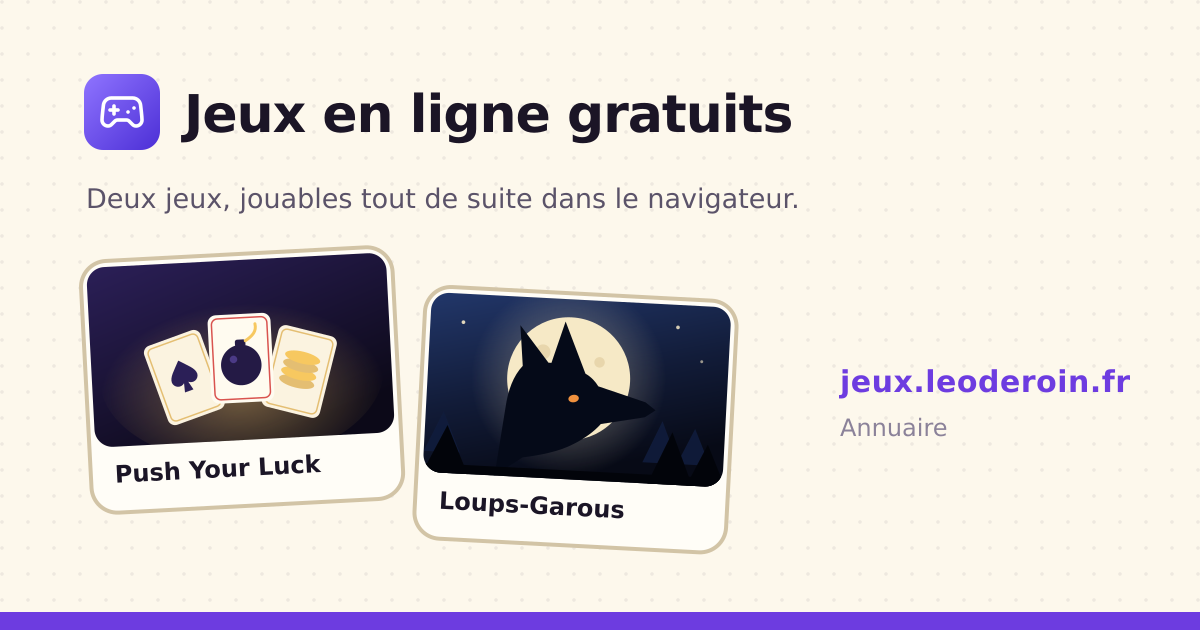
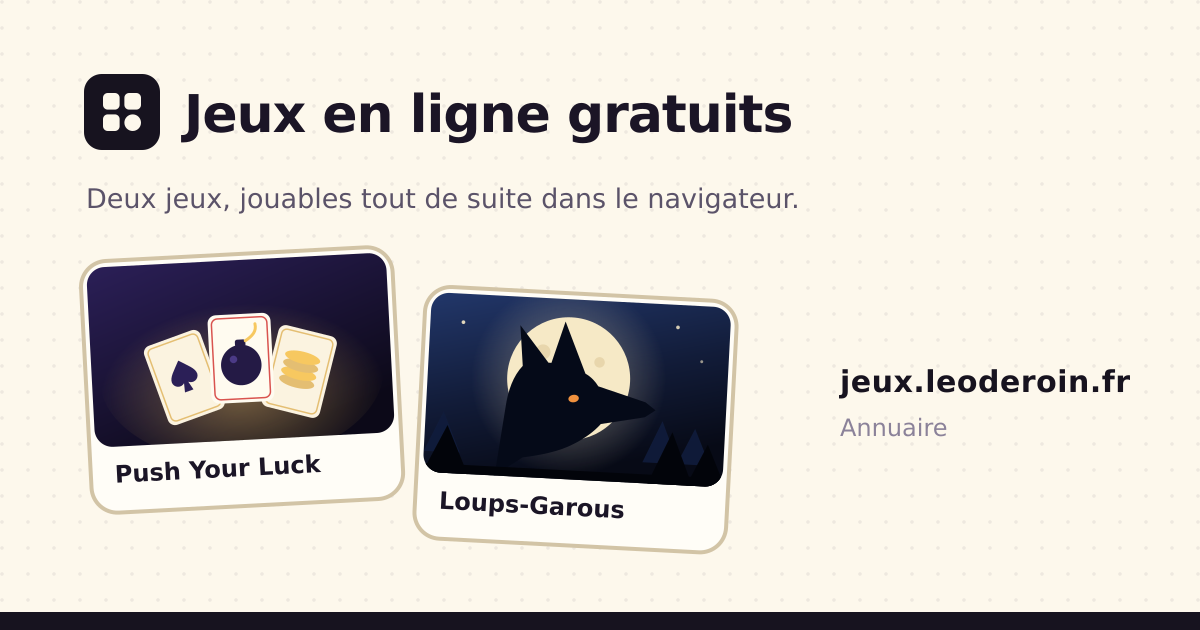
feat(design): donne au site une identité qui lui appartient
Trois choix, contre le « site généré » :

1. L'accent violet disparaît. C'était la teinte par défaut de la moitié des
   sites du web, et elle rivalisait avec les vignettes. L'interface devient
   bichrome papier/encre : les SEULES couleurs saturées de la page sont
   maintenant celles des jeux. Le panneau emprunte sa couleur à ce vers quoi
   il conduit — ce qu'il fait, littéralement.

2. La manette dans un carré arrondi cède la place à un panneau de trois tuiles
   et d'un disque : des objets parmi lesquels un est différent, celui qu'on
   choisit. Testé à 16 px. Une arche avait été essayée avant : elle se lit
   « n », c'est la même forme.

3. La signature se lit en deux temps — « jeux » en pleine encre, le domaine en
   retrait — et l'accueil quitte le centrage intégral pour s'aligner à gauche
   sur sa grille.

Vérifié : 16 pages, contraste Lighthouse conforme, 97/100/100/100 en mobile,
CLS toujours à 0.

Changed region(s): [[0.0, 0.9651, 1.0, 1.0], [0.6783, 0.573, 0.9558, 0.6333], [0.0617, 0.0905, 0.1542, 0.2413]]

diff --git a/src/components/BrandMark.tsx b/src/components/BrandMark.tsx
@@ -1,0 +1,32 @@
+// Trois tuiles et un disque : un panneau d'objets dont un est différent, celui
+// qu'on choisit. C'est ce que fait le site, et ça se reconnaît encore à 16 px —
+// ce qui n'était le cas ni de l'arche (illisible, elle se lit « n ») ni d'une
+// manette, qui aurait dit « jeux » comme n'importe quel autre logo.
+export function BrandMark({ className }: { className?: string }) {
+    return (
+        <svg aria-hidden="true" viewBox="0 0 64 64" className={className}>
+            <rect width="64" height="64" rx="15" className="fill-accent" />
+            <rect x="16" y="16" width="14" height="14" rx="4" className="fill-accent-contrast" />
+            <rect x="34" y="16" width="14" height="14" rx="4" className="fill-accent-contrast" />
+            <rect x="16" y="34" width="14" height="14" rx="4" className="fill-accent-contrast" />
+            <circle cx="41" cy="41" r="7" className="fill-accent-contrast" />
+        </svg>
+    );
+}
+
+// La signature se lit en deux temps : ce que le site EST en pleine encre, le
+// domaine qui le porte en retrait. Le découpage se fait sur le premier point,
+// pas sur une seconde clé de dictionnaire — une clé « tête » et une clé
+// « queue » finiraient par se contredire à la traduction suivante.
+export function BrandWordmark({ brand, className }: { brand: string; className?: string }) {
+    const dot = brand.indexOf('.');
+    const head = dot === -1 ? brand : brand.slice(0, dot);
+    const tail = dot === -1 ? '' : brand.slice(dot);
+
+    return (
+        <span className={`font-[family-name:var(--font-display)] tracking-tight ${className ?? ''}`}>
+            <span className="font-semibold">{head}</span>
+            <span className="font-medium text-fg-muted">{tail}</span>
+        </span>
+    );
+}

diff --git a/src/app/globals.css b/src/app/globals.css
@@ -19,11 +19,11 @@
     --fg-muted: #6a6178;
     --border: #e7dcc4;
     --border-strong: #d2c4a6;
-    --accent: #6d3ce0;
-    --accent-contrast: #fffdf7;
-    --ring: #6d3ce0;
+    --accent: #17131f;
+    --accent-contrast: #fdf8ec;
+    --ring: #17131f;
     --dots: rgb(27 21 38 / 0.055);
-    --halo: rgb(109 60 224 / 0.055);
+    --halo: rgb(23 19 31 / 0.045);
     --shadow-card: 0 2px 0 var(--border-strong), 0 14px 30px -18px rgb(27 21 38 / 0.5);
     --shadow-card-hover: 0 4px 0 var(--border-strong), 0 30px 50px -22px rgb(27 21 38 / 0.55);
 
@@ -51,12 +51,12 @@
         --fg-muted: #a79fba;
         --border: #2c2440;
         --border-strong: #3f3459;
-        --accent: #b69bff;
-        --accent-contrast: #16112a;
-        --ring: #b69bff;
+        --accent: #f2eef8;
+        --accent-contrast: #0d0a16;
+        --ring: #f2eef8;
         --dots: rgb(246 242 251 / 0.06);
-    --halo: rgb(182 155 255 / 0.075);
-        --halo: rgb(182 155 255 / 0.075);
+    --halo: rgb(242 238 248 / 0.055);
+        --halo: rgb(242 238 248 / 0.055);
         --shadow-card: 0 2px 0 var(--border-strong), 0 14px 30px -18px rgb(0 0 0 / 0.85);
         --shadow-card-hover: 0 4px 0 var(--border-strong), 0 30px 50px -22px rgb(0 0 0 / 0.9);
 
@@ -81,11 +81,11 @@
     --fg-muted: #a79fba;
     --border: #2c2440;
     --border-strong: #3f3459;
-    --accent: #b69bff;
-    --accent-contrast: #16112a;
-    --ring: #b69bff;
+    --accent: #f2eef8;
+    --accent-contrast: #0d0a16;
+    --ring: #f2eef8;
     --dots: rgb(246 242 251 / 0.06);
-    --halo: rgb(182 155 255 / 0.075);
+    --halo: rgb(242 238 248 / 0.055);
     --shadow-card: 0 2px 0 var(--border-strong), 0 14px 30px -18px rgb(0 0 0 / 0.85);
     --shadow-card-hover: 0 4px 0 var(--border-strong), 0 30px 50px -22px rgb(0 0 0 / 0.9);
 

diff --git a/src/views/HomeView.tsx b/src/views/HomeView.tsx
@@ -16,11 +16,11 @@ export function HomeView({ locale }: { locale: Locale }) {
             {/* En-tête de page volontairement COURT : sur un annuaire, chaque
                 ligne de texte avant la grille repousse les jeux hors de l'écran,
                 et ce sont eux qu'on vient voir. */}
-            <section className="mx-auto w-full max-w-4xl px-4 pt-10 pb-7 text-center sm:px-6 sm:pt-14 sm:pb-9">
+            <section className="mx-auto w-full max-w-4xl px-4 pt-10 pb-7 sm:px-6 sm:pt-14 sm:pb-9">
                 <h1 className="text-2xl leading-tight font-semibold text-balance sm:text-3xl">
                     {dictionary.hero.title}
                 </h1>
-                <p className="mt-2 flex flex-wrap items-center justify-center gap-x-2.5 gap-y-1 text-sm text-fg-muted">
+                <p className="mt-2 flex flex-wrap items-center gap-x-2.5 gap-y-1 text-sm text-fg-muted">
                     <span>{dictionary.hero.tagline}</span>
                     <span aria-hidden="true" className="text-border-strong">
                         ·
@@ -48,7 +48,7 @@ export function HomeView({ locale }: { locale: Locale }) {
                     trou béant à droite, et à quatre jeux une grille en deux
                     colonnes serait à l'étroit. Ici les tuiles gardent leur
                     taille et restent centrées, quel que soit leur nombre. */}
-                <ul className="grid grid-cols-[repeat(auto-fit,minmax(15rem,22rem))] justify-center gap-5 sm:gap-6">
+                <ul className="grid grid-cols-[repeat(auto-fit,minmax(15rem,22rem))] gap-5 sm:gap-6">
                     {GAMES.map((game, index) => (
                         <li key={game.id} className="flex">
                             <GameCard

diff --git a/src/components/SiteHeader.tsx b/src/components/SiteHeader.tsx
@@ -1,8 +1,8 @@
 import Link from 'next/link';
-import { Gamepad2 } from 'lucide-react';
 import type { Dictionary } from '@/i18n';
 import type { Locale } from '@/i18n/config';
 import { path, type RouteKey } from '@/i18n/routes';
+import { BrandMark, BrandWordmark } from './BrandMark';
 import { LocaleSwitcher } from './LocaleSwitcher';
 import { ThemeToggle } from './ThemeToggle';
 
@@ -26,15 +26,8 @@ export function SiteHeader({
                     aria-current={routeKey === 'home' ? 'page' : undefined}
                     className="group flex items-center gap-2.5 text-fg no-underline"
                 >
-                    <span
-                        aria-hidden="true"
-                        className="flex size-8 items-center justify-center rounded-lg bg-accent text-accent-contrast transition-transform duration-200 group-hover:-rotate-6"
-                    >
-                        <Gamepad2 className="size-[1.1rem]" strokeWidth={2.2} />
-                    </span>
-                    <span className="font-[family-name:var(--font-display)] text-base font-semibold tracking-tight sm:text-lg">
-                        {dictionary.header.brand}
-                    </span>
+                    <BrandMark className="size-8 shrink-0 transition-transform duration-200 group-hover:-translate-y-0.5" />
+                    <BrandWordmark brand={dictionary.header.brand} className="text-base sm:text-lg" />
                 </Link>
 
                 {/* `ml-auto` plutôt qu'un `justify-between` : quand la ligne

diff --git a/src/components/SiteFooter.tsx b/src/components/SiteFooter.tsx
@@ -5,6 +5,7 @@ import type { Locale } from '@/i18n/config';
 import { format } from '@/i18n/format';
 import { path } from '@/i18n/routes';
 import { APP_VERSION, AUTHOR } from '@/lib/site';
+import { BrandMark, BrandWordmark } from './BrandMark';
 import { GithubMark } from './GithubMark';
 
 const linkClass =
@@ -17,9 +18,10 @@ export function SiteFooter({ locale, dictionary }: { locale: Locale; dictionary:
         <footer className="mt-auto border-t-2 border-border-strong bg-bg-sunken">
             <div className="mx-auto grid w-full max-w-4xl gap-8 px-4 py-10 sm:grid-cols-[1.6fr_1fr_1fr] sm:px-6">
                 <div className="flex flex-col gap-1.5">
-                    <p className="font-[family-name:var(--font-display)] text-base font-semibold">
-                        {dictionary.header.brand}
-                    </p>
+                    <div className="flex items-center gap-2.5">
+                        <BrandMark className="size-7 shrink-0" />
+                        <BrandWordmark brand={dictionary.header.brand} className="text-base" />
+                    </div>
                     <p className="max-w-xs text-sm text-fg-muted text-pretty">
                         {dictionary.footer.rights}
                     </p>
